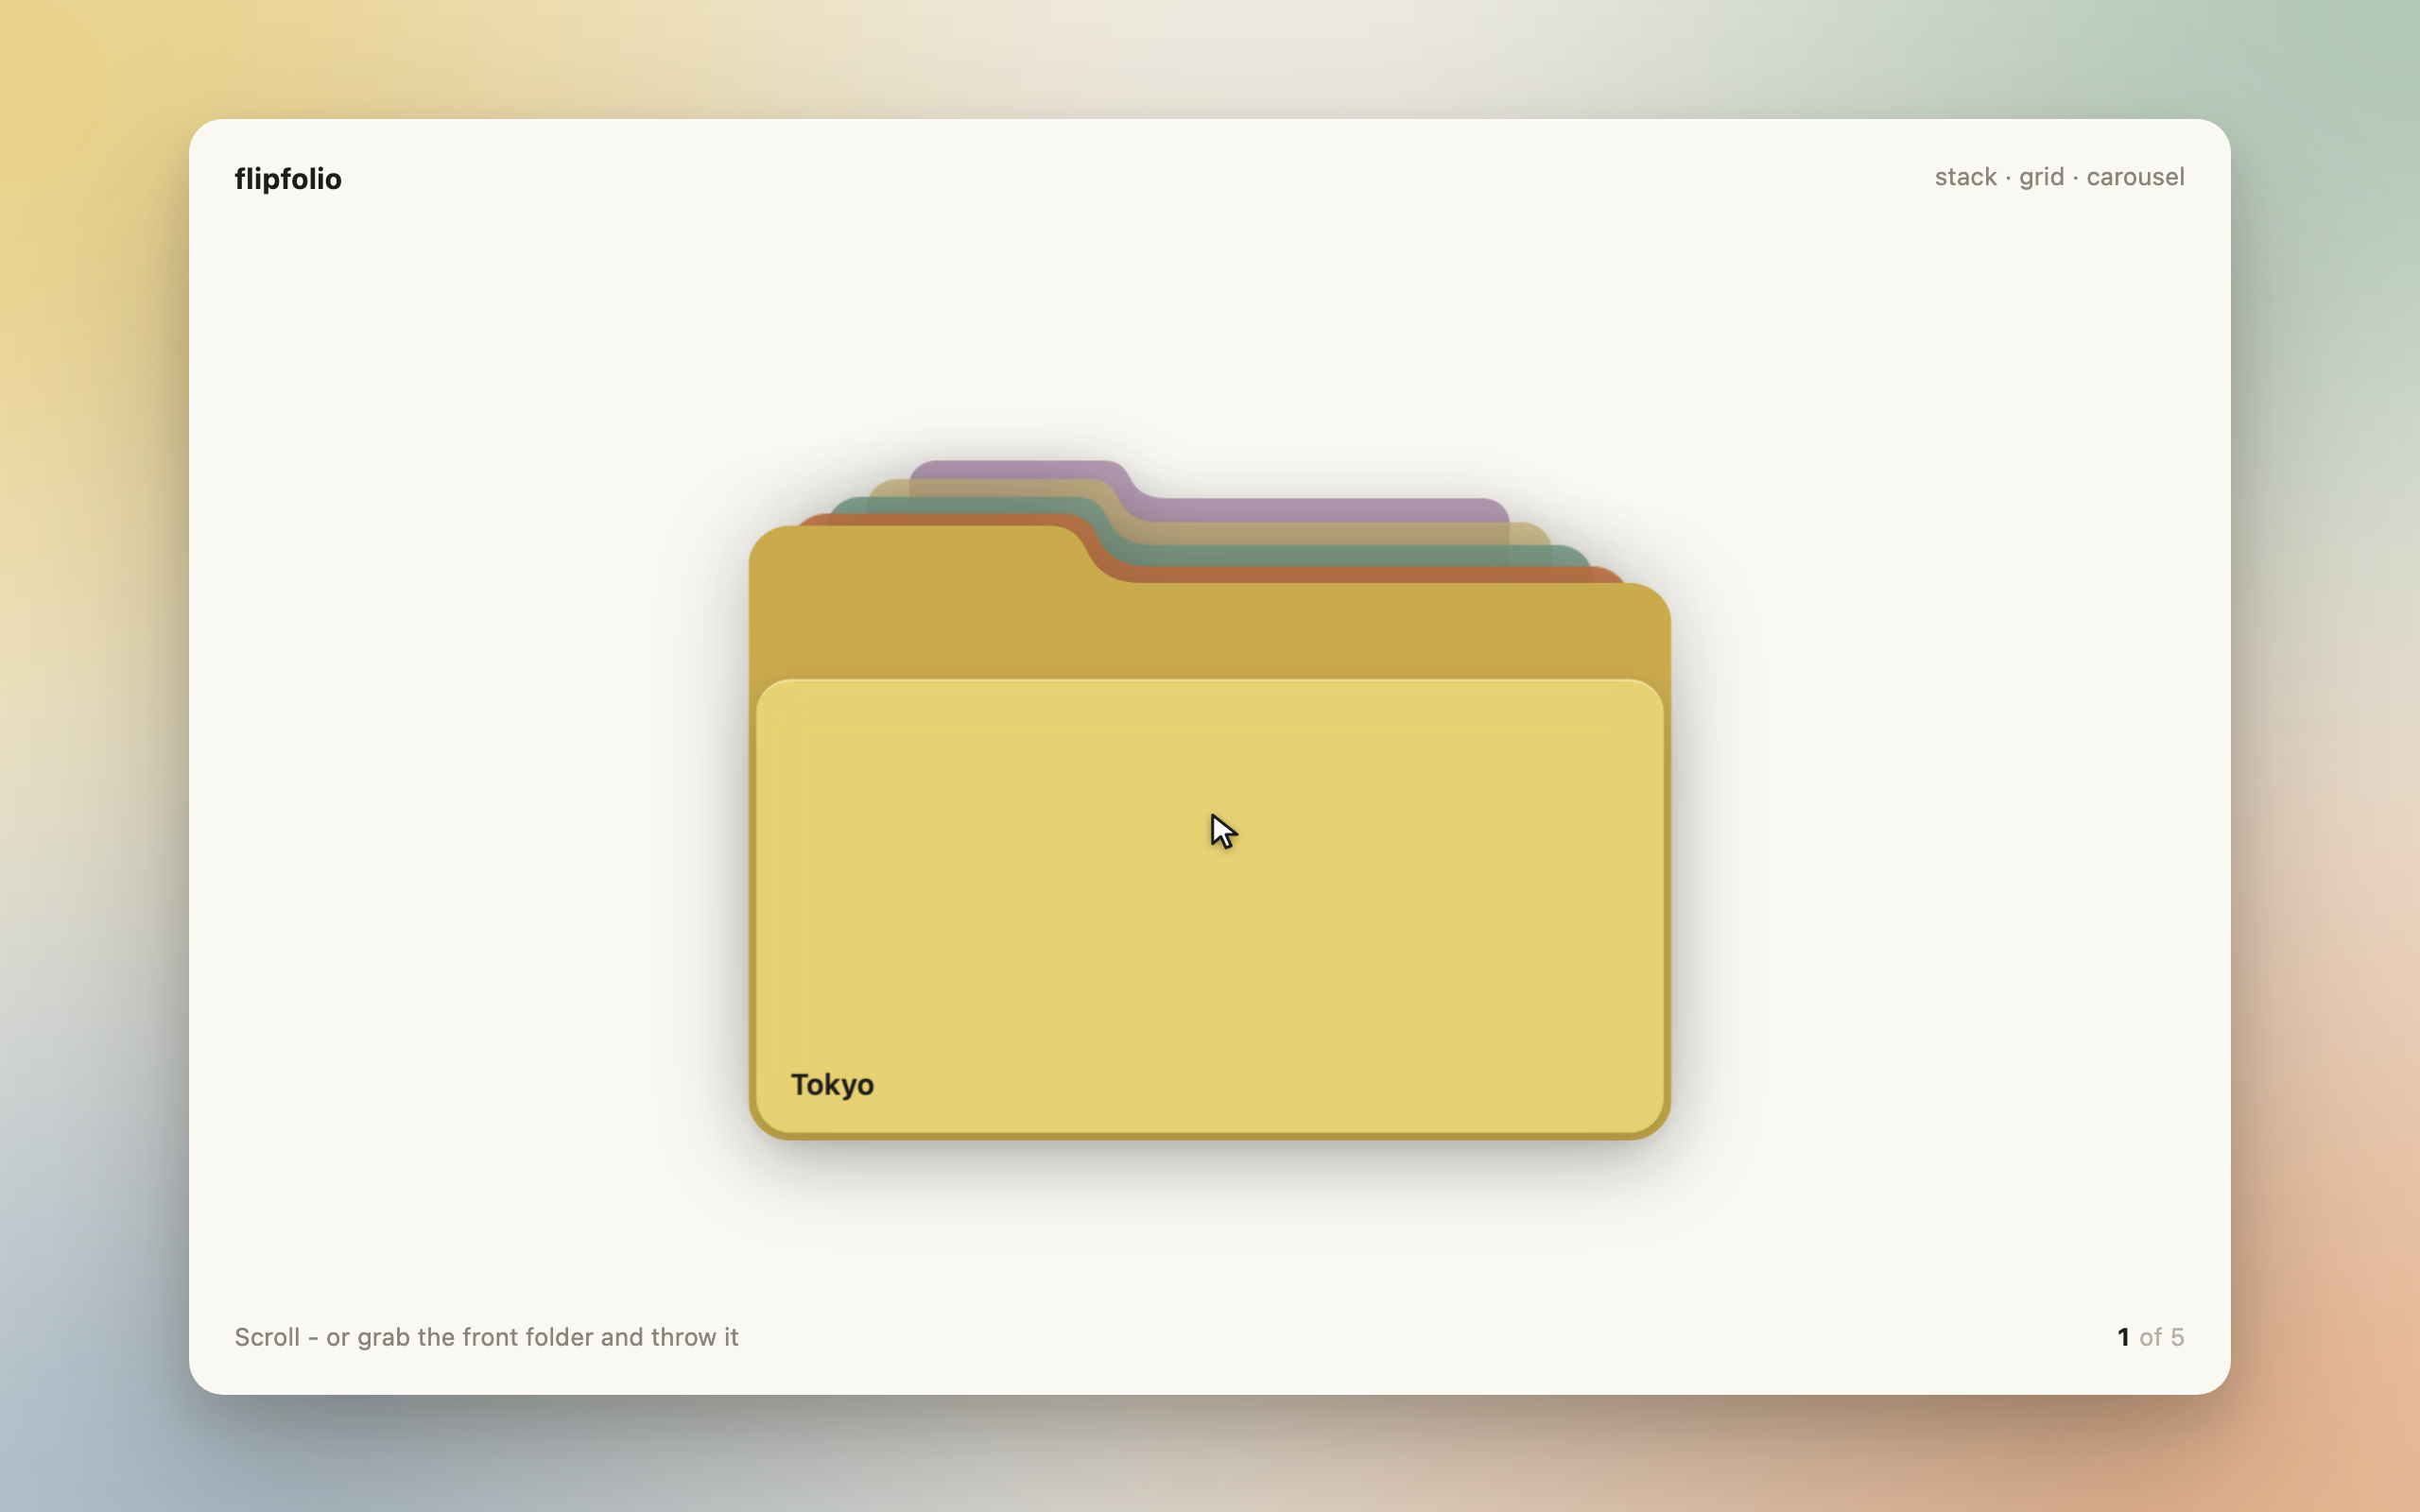
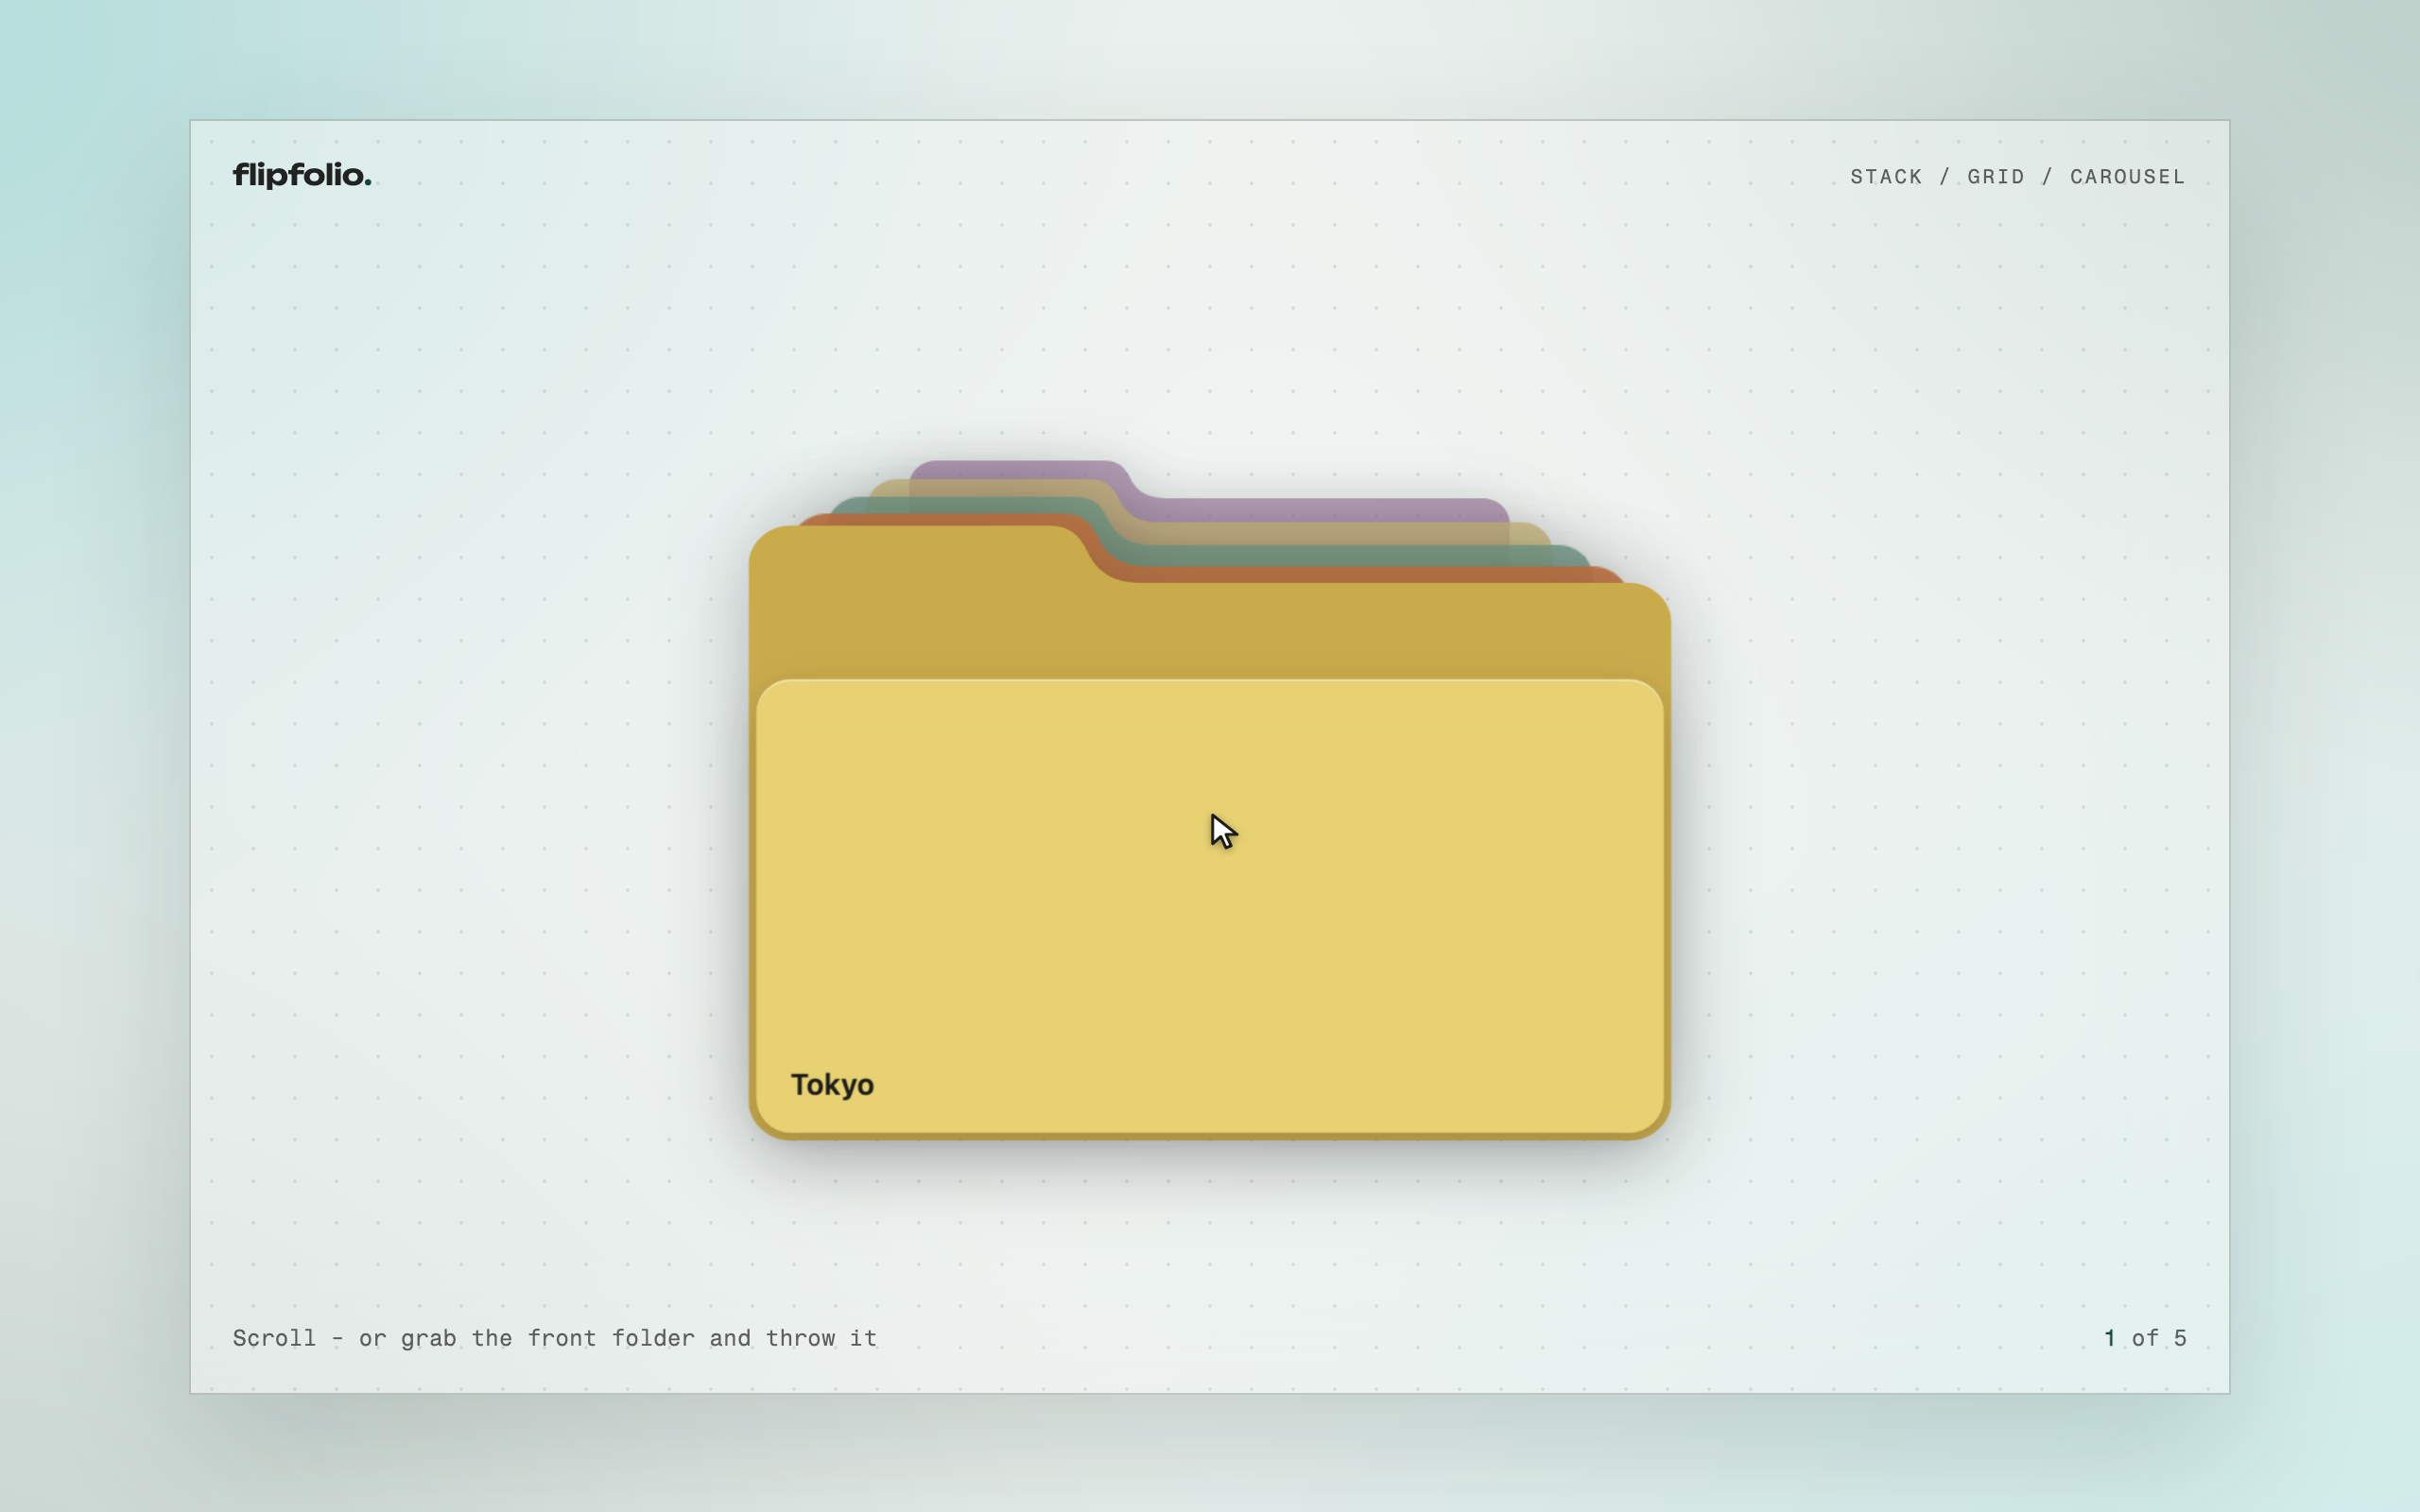
assets: capture stage restyled to the kirthi.studio system
Keeps the borrowed atmosphere (blurred mesh, frosted glass) but
everything else is the portfolio's design language: cool paper, pine
accent, sharp corners with a hairline border, the dot grid inside the
panel, Unbounded wordmark with the accent period, Fragment Mono meta.
Demo GIF and hero re-recorded on this stage.

Changed region(s): [[0.0, 0.0, 1.0, 1.0]]

diff --git a/docs/mockup.html b/docs/mockup.html
@@ -4,10 +4,15 @@
   <meta charset="utf-8">
   <meta name="viewport" content="width=device-width, initial-scale=1">
   <title>flipfolio capture stage</title>
+  <link rel="preconnect" href="https://fonts.googleapis.com">
+  <link rel="preconnect" href="https://fonts.gstatic.com" crossorigin>
+  <link href="https://fonts.googleapis.com/css2?family=Unbounded:wght@500;600&family=Fragment+Mono&display=swap" rel="stylesheet">
   <link rel="stylesheet" href="../src/folder-gallery.css">
   <style>
-    /* A capture stage for launch clips: the gallery floats in a paper
-       window on a soft blurred wallpaper, in flipfolio's own palette. */
+    /* Capture stage for launch clips. Atmosphere borrowed from the
+       floating-window genre; everything else is the kirthi.studio system:
+       cool paper, pine accent, sharp corners, hairline borders, wide
+       grotesque wordmark, mono meta, dot grid. */
     * { box-sizing: border-box; }
     html, body { height: 100%; }
     body {
@@ -16,50 +21,71 @@
       overflow: hidden;
       display: grid;
       place-items: center;
-      background: #e9e2d4;
-      font: 14px/1.5 ui-sans-serif, system-ui, sans-serif;
+      background: #F0F4F2;
+      font: 14px/1.5 'Hanken Grotesk', ui-sans-serif, system-ui, sans-serif;
       cursor: none;
     }
-    /* wallpaper: warm blurred mesh */
+    /* wallpaper: cool blurred mesh, restrained */
     .mesh {
       position: fixed; inset: -20%;
       background:
-        radial-gradient(42% 55% at 18% 22%, #e8c96acc, transparent 70%),
-        radial-gradient(38% 48% at 82% 18%, #8fb5a3bb, transparent 70%),
-        radial-gradient(46% 60% at 78% 82%, #dd8f5ea8, transparent 70%),
-        radial-gradient(40% 52% at 22% 84%, #7f9db8b0, transparent 70%),
-        radial-gradient(60% 70% at 50% 50%, #f3f1ec, #e9e2d4);
-      filter: blur(60px) saturate(1.05);
+        radial-gradient(44% 58% at 16% 20%, rgba(126, 202, 202, 0.55), transparent 70%),
+        radial-gradient(40% 52% at 84% 16%, rgba(46, 106, 92, 0.28), transparent 70%),
+        radial-gradient(48% 62% at 80% 84%, rgba(179, 232, 232, 0.5), transparent 70%),
+        radial-gradient(42% 56% at 18% 86%, rgba(20, 69, 60, 0.16), transparent 70%),
+        radial-gradient(60% 70% at 50% 50%, #F0F4F2, #E4ECE8);
+      filter: blur(70px) saturate(1.02);
       transform: scale(1.1);
     }
-    /* the floating window */
+    /* the panel: frosted glass, sharp corners, hairline border */
     .window {
       position: relative;
       width: min(1080px, 90vw);
       aspect-ratio: 16 / 10;
-      background: #faf8f2;
-      border-radius: 18px;
-      box-shadow:
-        0 40px 90px rgba(40, 34, 20, 0.30),
-        0 12px 28px rgba(40, 34, 20, 0.16),
-        inset 0 1px 0 rgba(255, 255, 255, 0.7);
+      background: rgba(240, 244, 242, 0.55);
+      backdrop-filter: blur(28px) saturate(1.1);
+      -webkit-backdrop-filter: blur(28px) saturate(1.1);
+      border: 1px solid rgba(18, 40, 30, 0.22);
+      border-radius: 0;
+      box-shadow: 0 30px 70px rgba(18, 40, 30, 0.16);
       display: grid;
       place-items: center;
       overflow: hidden;
     }
+    /* her dot grid, inside the glass */
+    .window::before {
+      content: '';
+      position: absolute; inset: 0;
+      background-image: radial-gradient(rgba(18, 40, 30, 0.10) 1px, transparent 1px);
+      background-size: 22px 22px;
+      pointer-events: none;
+    }
     .corner {
       position: absolute;
-      font-size: 13px;
-      letter-spacing: 0.01em;
-      color: #8a857a;
       z-index: 5;
       user-select: none;
+      font-family: 'Fragment Mono', monospace;
+      font-size: 12px;
+      color: rgba(0, 0, 0, 0.6);
     }
-    .corner--tl { top: 20px; left: 24px; font-weight: 700; color: #1c1c1a; font-size: 15px; }
-    .corner--tr { top: 21px; right: 24px; }
-    .corner--bl { bottom: 20px; left: 24px; }
-    .corner--br { bottom: 20px; right: 24px; font-variant-numeric: tabular-nums; color: #1c1c1a; }
-    .corner--br span { color: #b5b0a4; }
+    .corner--tl {
+      top: 18px; left: 22px;
+      font-family: 'Unbounded', sans-serif;
+      font-weight: 600;
+      font-size: 15px;
+      letter-spacing: -0.01em;
+      color: rgba(0, 0, 0, 0.85);
+    }
+    .corner--tl b { color: #14453C; }
+    .corner--tr {
+      top: 22px; right: 22px;
+      font-size: 10.5px;
+      letter-spacing: 0.12em;
+      text-transform: uppercase;
+    }
+    .corner--bl { bottom: 20px; left: 22px; }
+    .corner--br { bottom: 20px; right: 22px; font-variant-numeric: tabular-nums; }
+    .corner--br b { color: #14453C; font-weight: 700; }
 
     folder-gallery { display: block; }
     #fg.fg-root { --fg-peek-shift: -72%; }
@@ -81,10 +107,10 @@
 <body>
   <div class="mesh"></div>
   <div class="window">
-    <span class="corner corner--tl">flipfolio</span>
-    <span class="corner corner--tr">stack &middot; grid &middot; carousel</span>
+    <span class="corner corner--tl">flipfolio<b>.</b></span>
+    <span class="corner corner--tr">stack / grid / carousel</span>
     <span class="corner corner--bl">Scroll - or grab the front folder and throw it</span>
-    <span class="corner corner--br"><b id="pos">1</b> <span>of 5</span></span>
+    <span class="corner corner--br"><b id="pos">1</b> of 5</span>
     <folder-gallery id="fg" mode="stack" data-fg-theme="light" label="Global cities"></folder-gallery>
   </div>
   <div id="cursor">